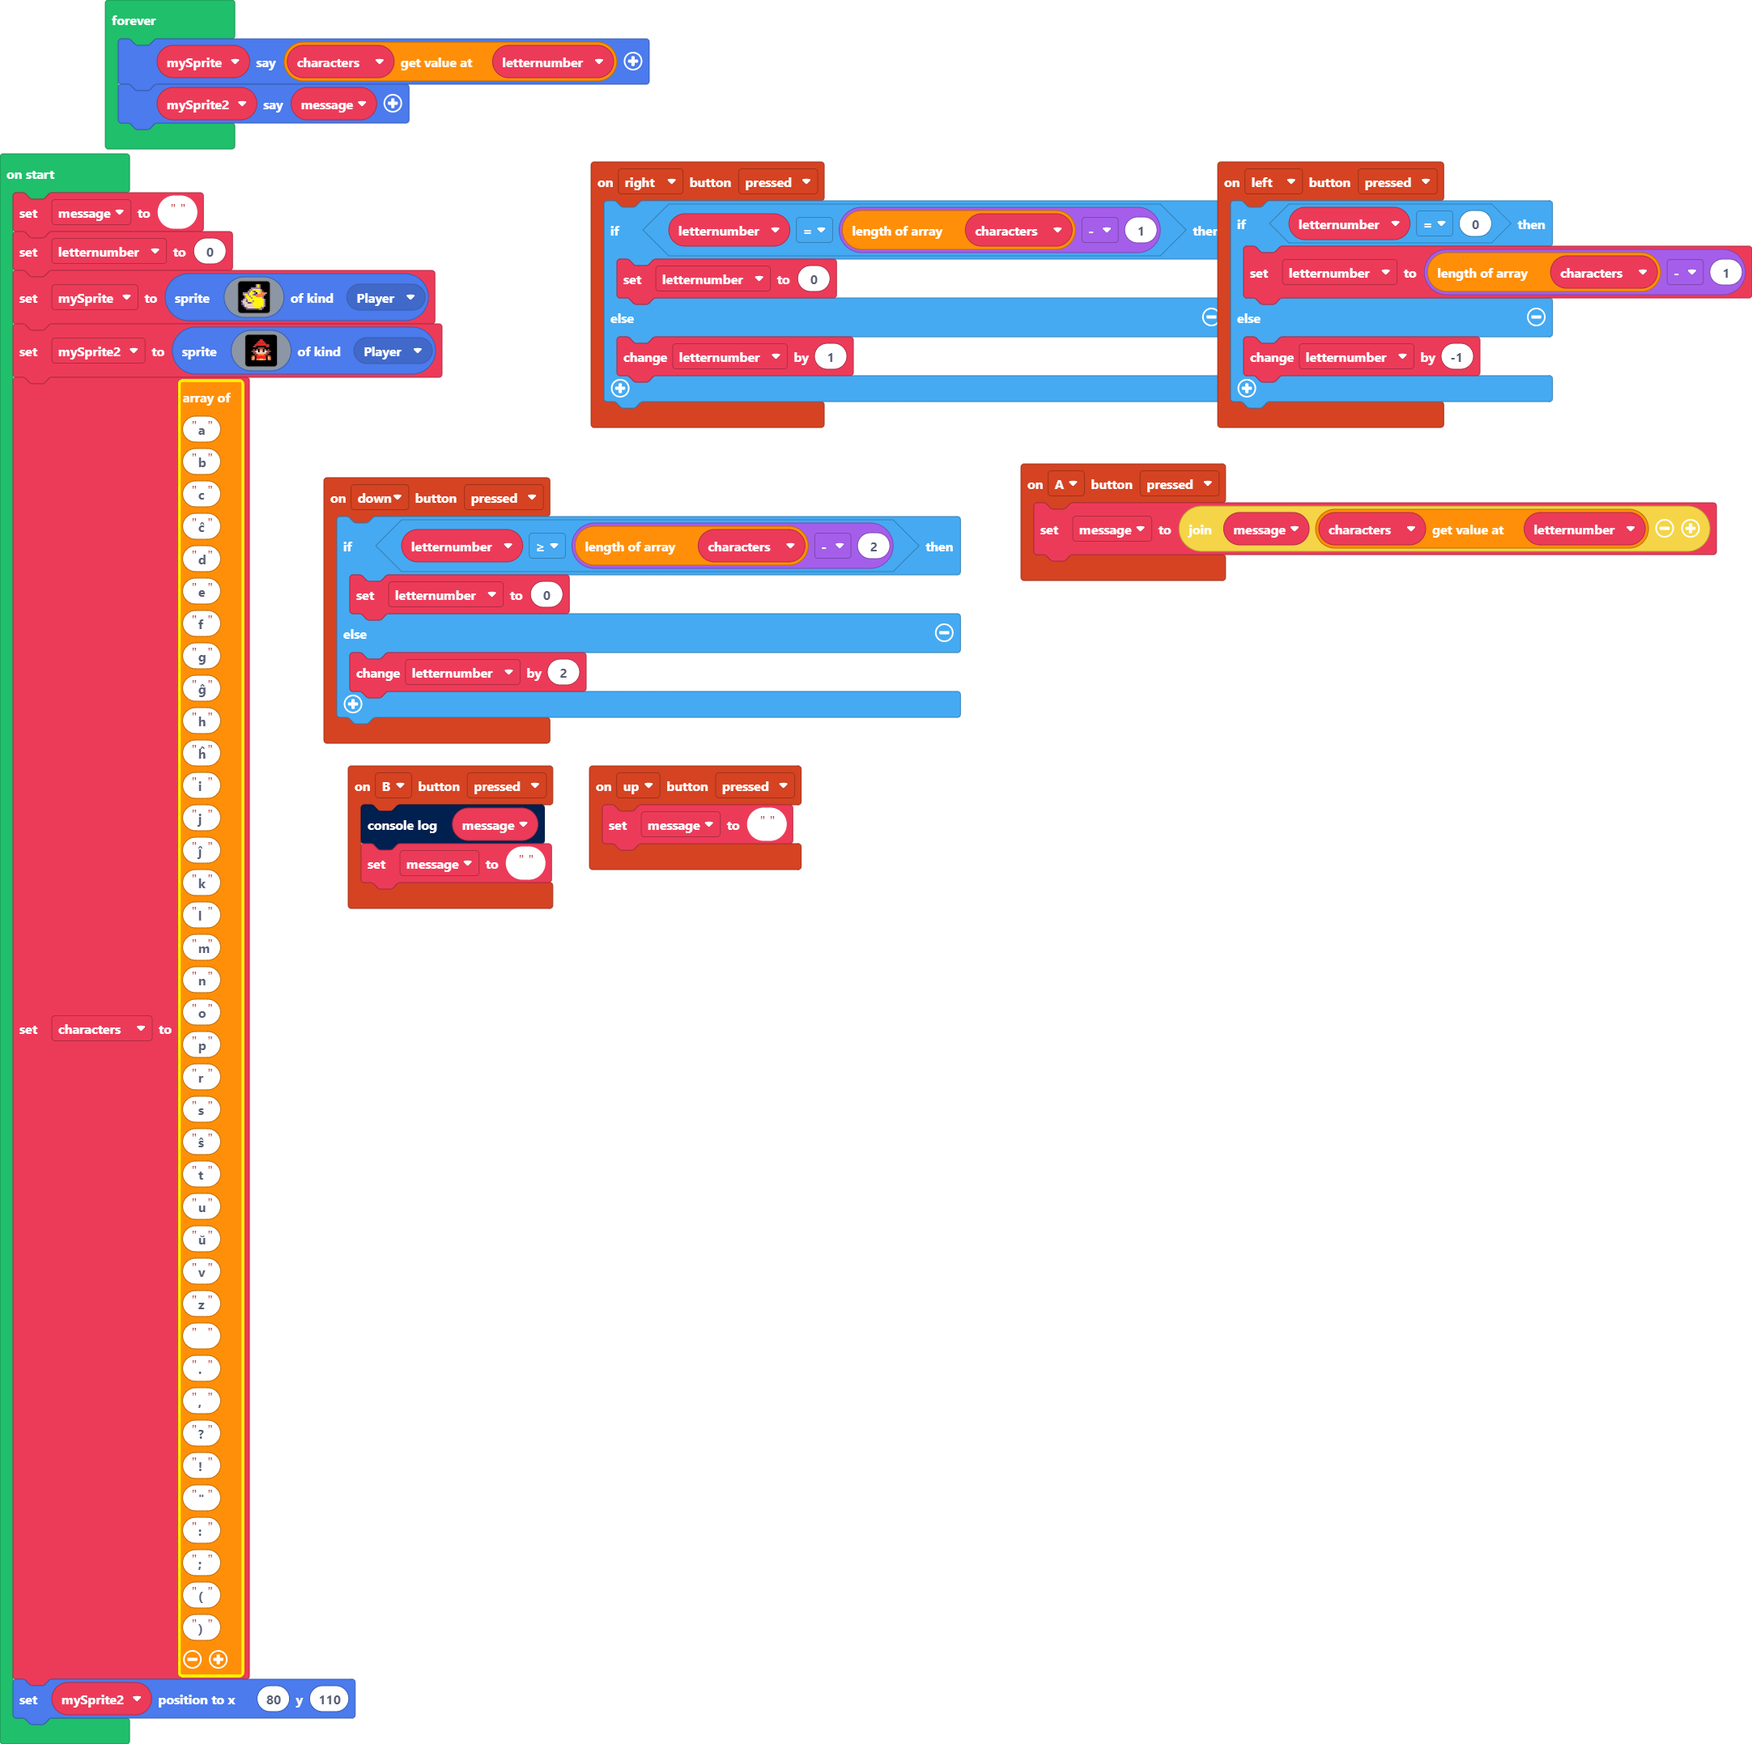
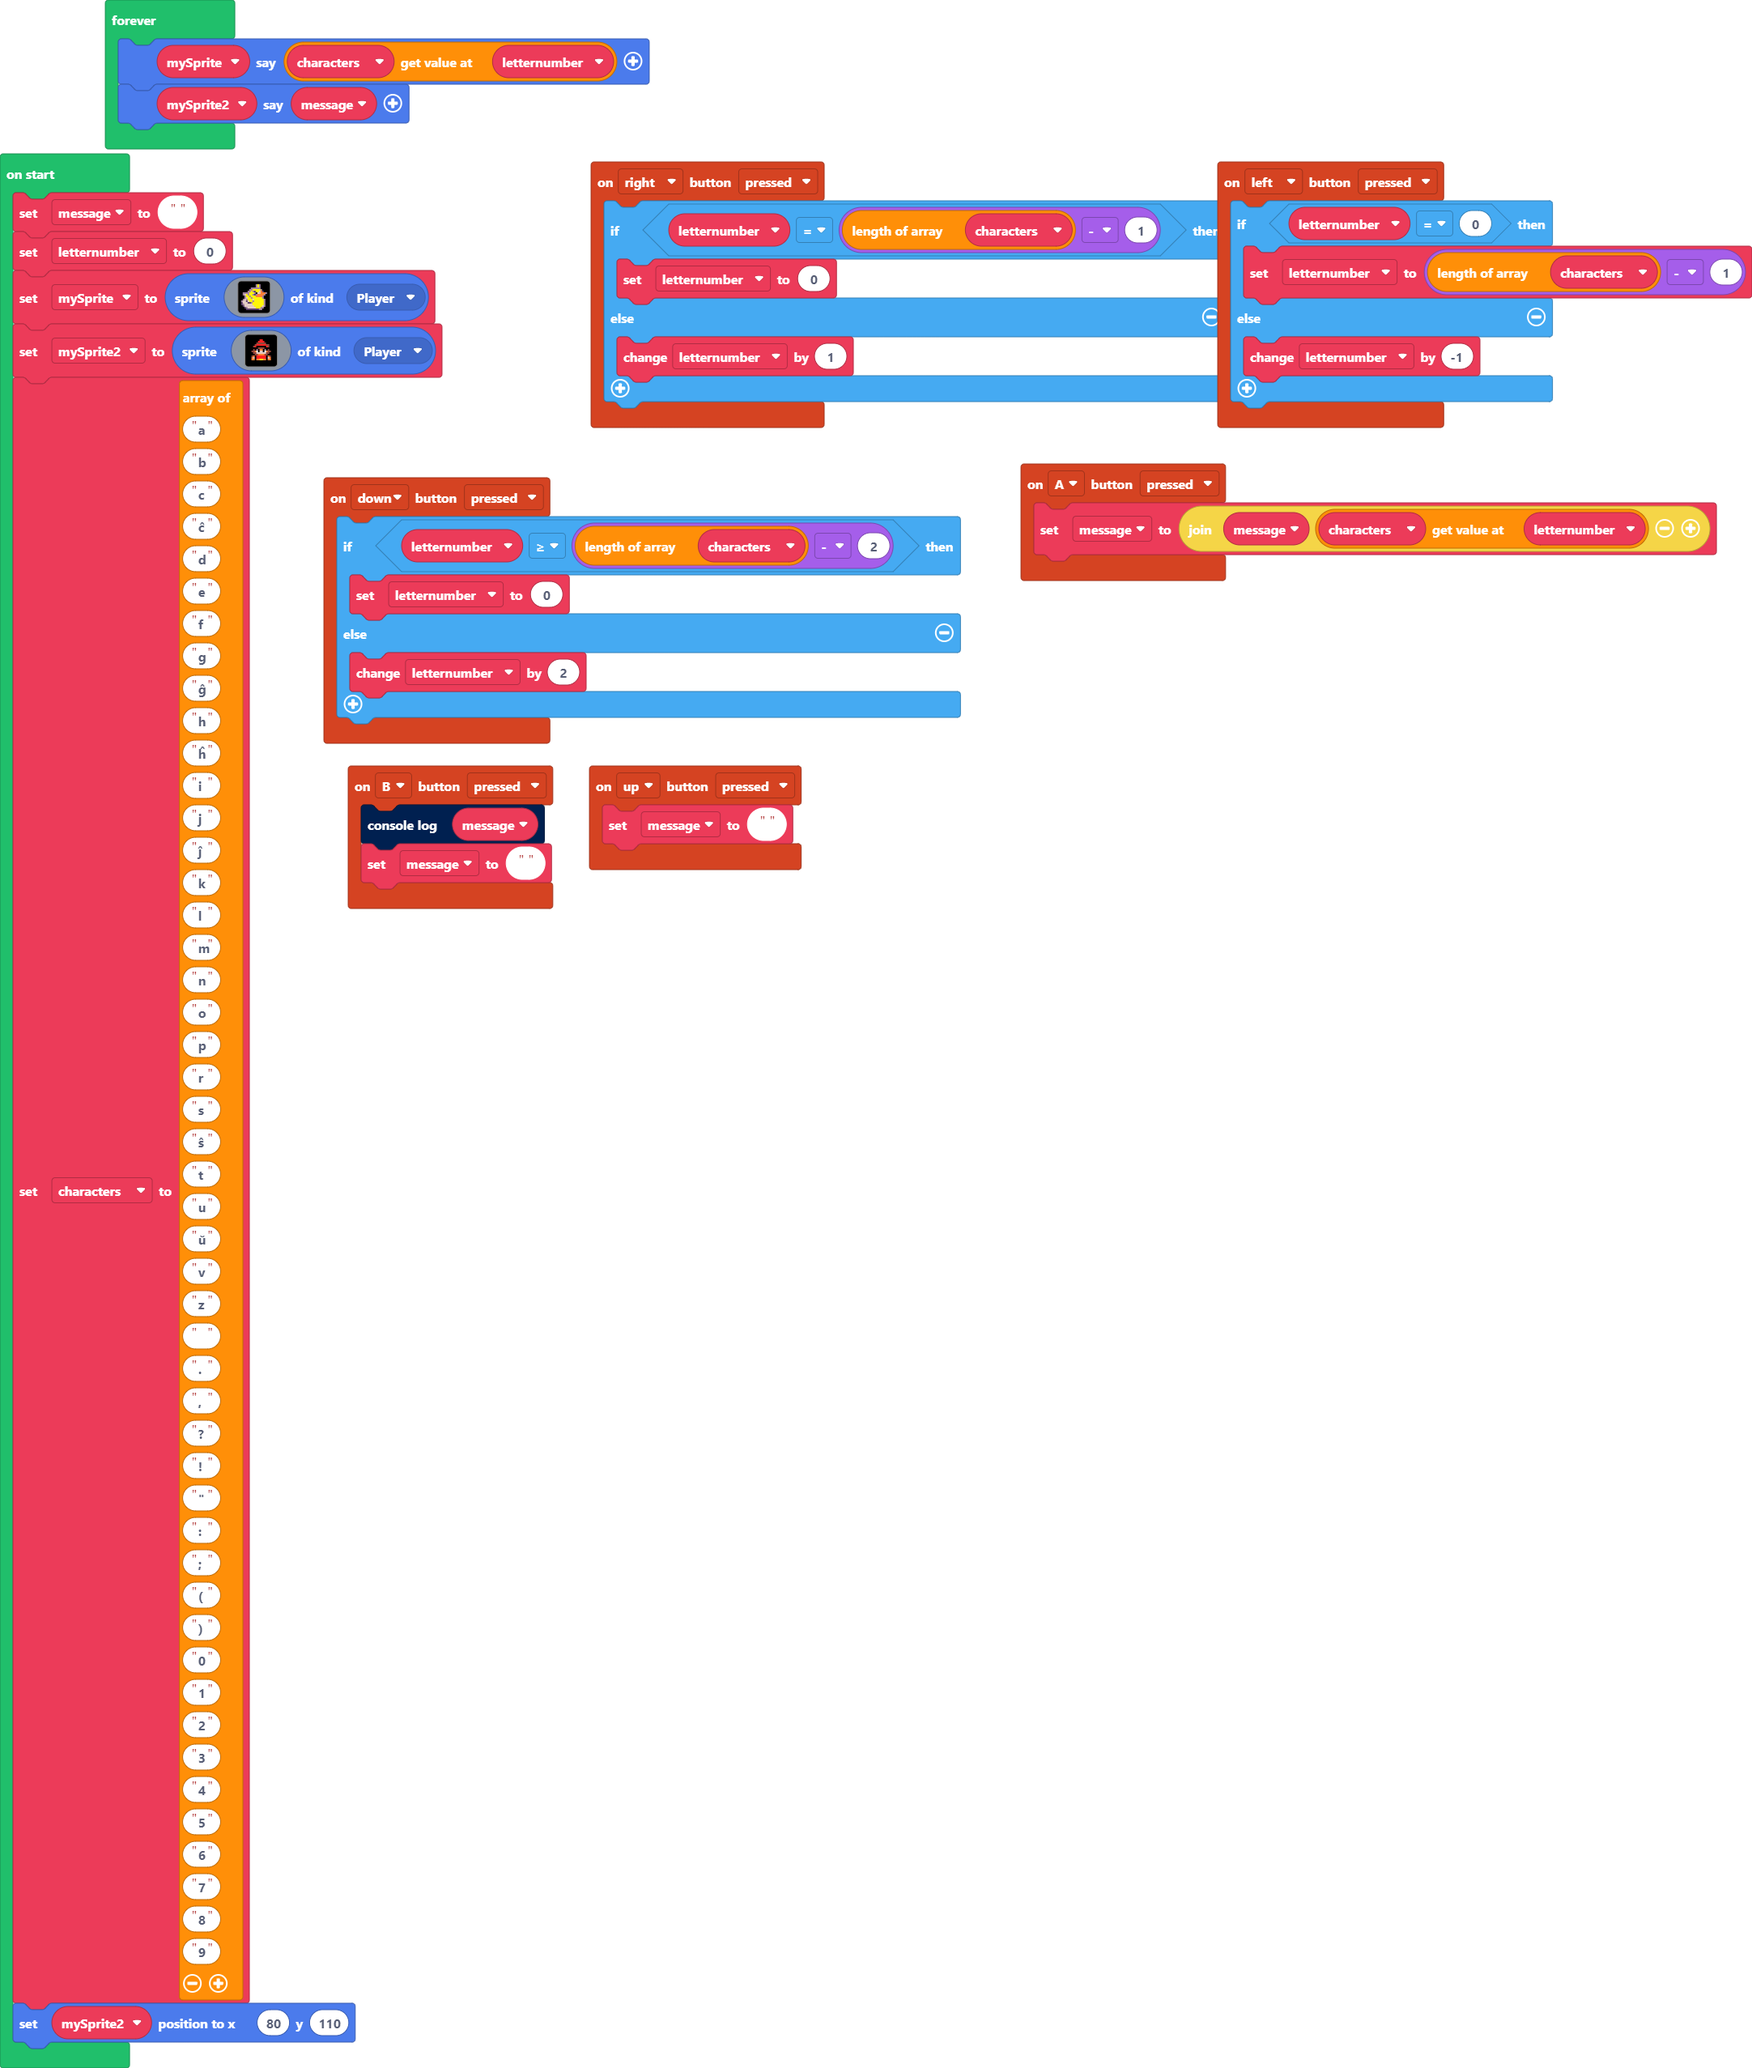
Update main.blocks, main.ts

Changed region(s): [[0.0, 0.0, 1.0, 0.9954]]

diff --git a/main.ts b/main.ts
@@ -108,7 +108,17 @@ characters = [
 ":",
 ";",
 "(",
-")"
+")",
+"0",
+"1",
+"2",
+"3",
+"4",
+"5",
+"6",
+"7",
+"8",
+"9"
 ]
 mySprite2.setPosition(80, 110)
 forever(function () {
